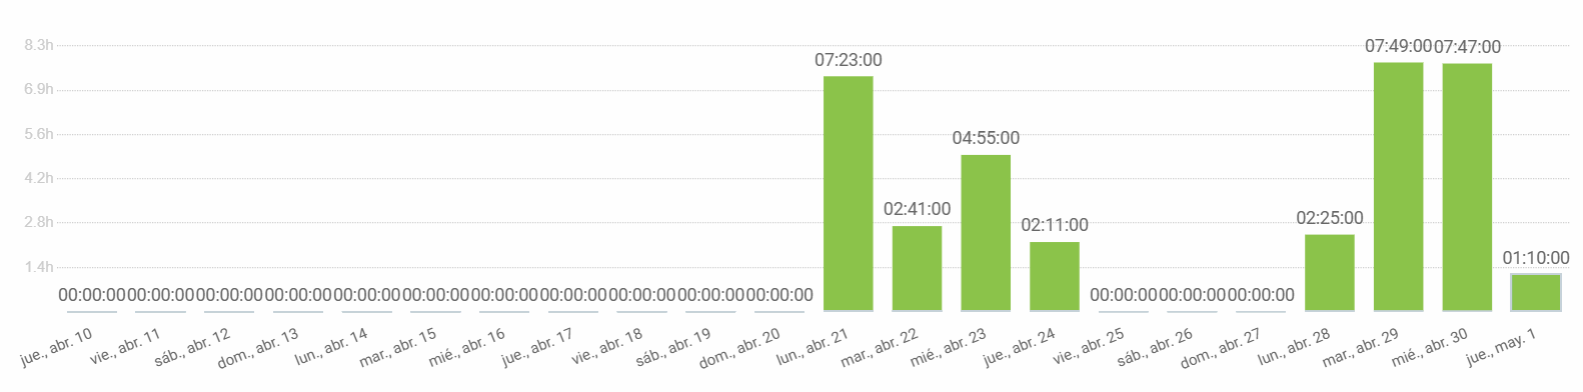
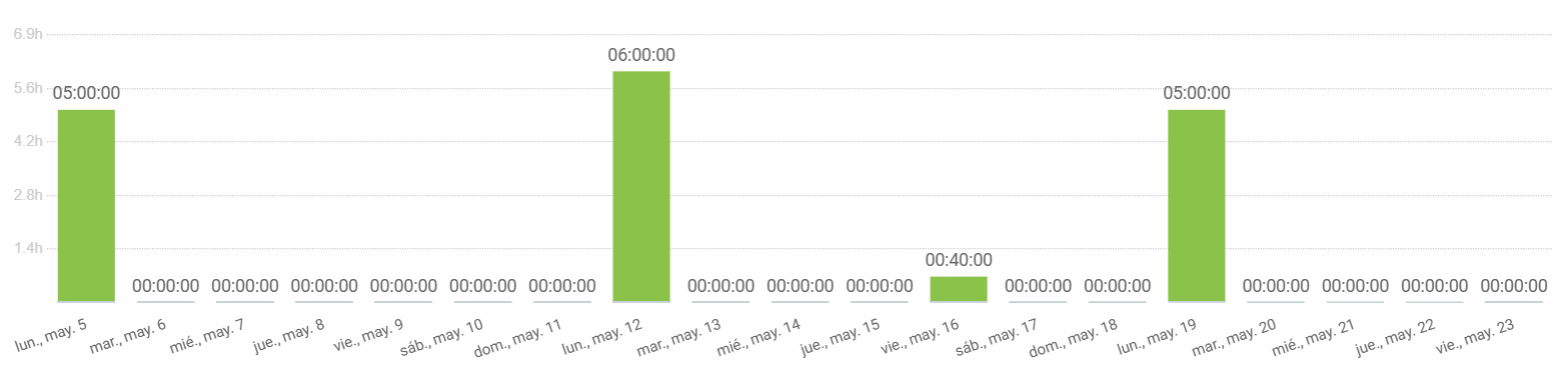
docs(IA/timeReport): Agregado reportes personales del WPL

diff --git a/docs/WPL/AIusage.md b/docs/WPL/AIusage.md
@@ -488,40 +488,58 @@ No aplica
 
 #### 1. Información General
 
-- **Nombre del programador:** Yesica Leydi Garate Fuentes
-- **Sprint:** WPL
-- **Rol en el proyecto:** Frontend, Publicidad, Marketing y Diseño Visual
+- **Nombre del programador:** Yesica Leydi Garate Fuentes  
+- **Sprint:** WPL  
+- **Rol en el proyecto:** Frontend, Publicidad y Marketing.
 
 #### 2. Tipo de Tareas en las que se Utilizó IA
 
-- Generación de contenido (X)
-- Diseño visual (X)
-- Marketing (X)
+- Generación de contenido (X)  
+- Diseño visual (X)   
+- Marketing (X)  
+- Edición de video (X)  
+- Identidad de marca (X)  
+- Optimización redes sociales (X) 
 
 #### 3. Uso de IA en las Tareas
 
 | Tarea | Herramienta utilizada | Descripción del uso de IA |
-|-------|-----------------------|---------------------------|
-| Storyboard video promocional | ChatGPT, Midjourney | Creación guion visual y diseño escenas |
-| Contenido redes sociales | ChatGPT, Canva | Generación ideas y diseño layouts |
+|-------|------------------------|----------------------------|
+| Contenido redes sociales | ChatGPT, Canva | Redacción de copies, diseño de plantillas, calendarios |
+| Estrategias de marketing viral | ChatGPT | Análisis de tendencias (Eurovisión, Feria de Sevilla, influencers) |
+| Optimización del perfil de Instagram | ChatGPT | Revisión bio, highlights, llamadas a la acción |
+| Diseño de campañas temáticas | ChatGPT, Canva | Desarrollo de posts “Sabías que…”, storytelling y engagement |
+| Imágenes con estilo realista para reels | MidJourney | Perros en situaciones cómicas/emotivas con maletas, señalando app |
+| Descripciones y hashtags para TikTok e Instagram | ChatGPT | Hashtags virales, descripciones SEO-friendly |
+| Campañas con humor o ironía respetuosa | ChatGPT | Guiones para reels de bloopers, trends de apertura de negocio |
+| Generación de imágenes según análisis de recepción | ChatGPT, MidJourney | Modificación o creación de nuevas imágenes según el tipo de contenido visual que generaba más engagement (emocional, humorístico o viral) |
 
 #### 4. Impacto en Productividad
 
-- **Horas estimadas ahorradas:** 30+ horas
+- **Horas estimadas ahorradas:** 30–40 horas  
+- **Impacto cualitativo:** Mayor variedad creativa, posts más virales, enfoque más estratégico y emocional.
 
 #### 5. Prompts Utilizados
 
-1. "Estrategias para presentar tracción inicial sin usuarios reales"
-2. "Ejemplos frases para campañas de marketing emocional con mascotas"
+1. “Estrategias para presentar tracción inicial sin usuarios reales”  
+2. “Ejemplos frases para campañas de marketing emocional con mascotas”  
+3. “Propuesta de reels viral con humor que explique cómo funciona una app”  
+4. “Ideas de campañas inspiradas en eventos actuales como Eurovisión”  
+5. “Diseña un post que combine humor con storytelling emocional canino”  
+6. “Frases para anunciar el lanzamiento de una app para alojamientos de mascotas”  
+7. “Post para mostrar apoyo a una marca amiga en tono elegante e ingenioso”  
 
 #### 6. Problemas Encontrados
 
-- Falta de coherencia emocional en algunos textos
-- Alto coste herramientas audiovisuales IA
+- Falta de coherencia emocional en algunos textos generados automáticamente  
+- Alto coste de algunas herramientas de generación visual (ej. MidJourney)  
+- Limitaciones de IA para captar tono emocional preciso sin ajustes humanos  
+- Dificultad para adaptar ciertos trends sin perder el foco de marca
+- El contenido generado por IA no garantiza resultados inmediatos. 
 
 #### 7. Evaluación General
 
-- **Recomendación:** Sí, con supervisión humana
+- **Recomendación del uso de IA:** Sí, siempre con supervisión creativa y estratégica humana. Es necesario complementar con estrategias de marketing, análisis humano y una correcta recopilación de datos para que estos puedan ser interpretados y utilizados eficazmente. Ademas, se utilizo herramientas de automatización como Meta Business Suite y Canva Pro para programar publicaciones( para mantener una presencia activa sin necesidad de intervención diaria), organizar contenidos y asegurar consistencia visual.
 
 ---
 

diff --git a/docs/WPL/timeEffortReport.md b/docs/WPL/timeEffortReport.md
@@ -76,28 +76,17 @@
 
 ## Reporte de tiempo de Yesica Leydi Garate Fuentes
 
-**Periodo:** 10/04/2025 - 30/04/2025
-**Total de tiempo trabajado:** 32:21:00
+**Periodo:** 05/05/2025 - 22/05/2025
+**Total de tiempo trabajado:** 16:20:00
 
 ### Proyecto Pawtel - Distribución del tiempo
 
 | Descripción | Duración |
 |-------------|---------|
-| Actualización de reportes individual personal | 01:10:00 |
-| Diseño de carteles para presentación oficial - Marketing | 03:48:00 |
-| Desarrollo de Presentación II - Marketing (PPL) | 03:59:00 |
-| Gestión de RRSS | 03:34:00 |
-| Recopilar recursos visuales (Post, Stories, Reels, videos, etc) II | 04:15:00 |
-| Corrección de materiales audiovisuales - Video de Inversores | 00:23:00 |
-| Cronograma de publicaciones en RRSS | 02:02:00 |
-| Desarrollo de Presentación: Marketing (PPL) | 02:11:00 |
-| Gestión de RRSS | 03:55:00 |
-| Video anuncio orientado a inversores | 01:00:00  |
-| Recursos Redes Sociales | 01:11:00|
-| Costes de marketing | 01:30:00 |
-| Recopilar recursos visuales (Post, Stories, Reels, videos, etc) I | 05:22:00 |
-| Definir la plantilla para la presentación | 02:01:00 |
-
+| Desarrollo de Presentación - WPL FINAL (Video) | 05:00:00 |
+| Desarrollo de Presentación - Evaluación de Rendimento individual | 00:20:00 |
+| Gestión de RRSS - Programar publicaciones | 05:00:00 |
+| Gestión de RRSS - Programar publicaciones| 06:00:00 |
 
 ![grafico-de-tiempos](graficas/yesica.png)
 ---
